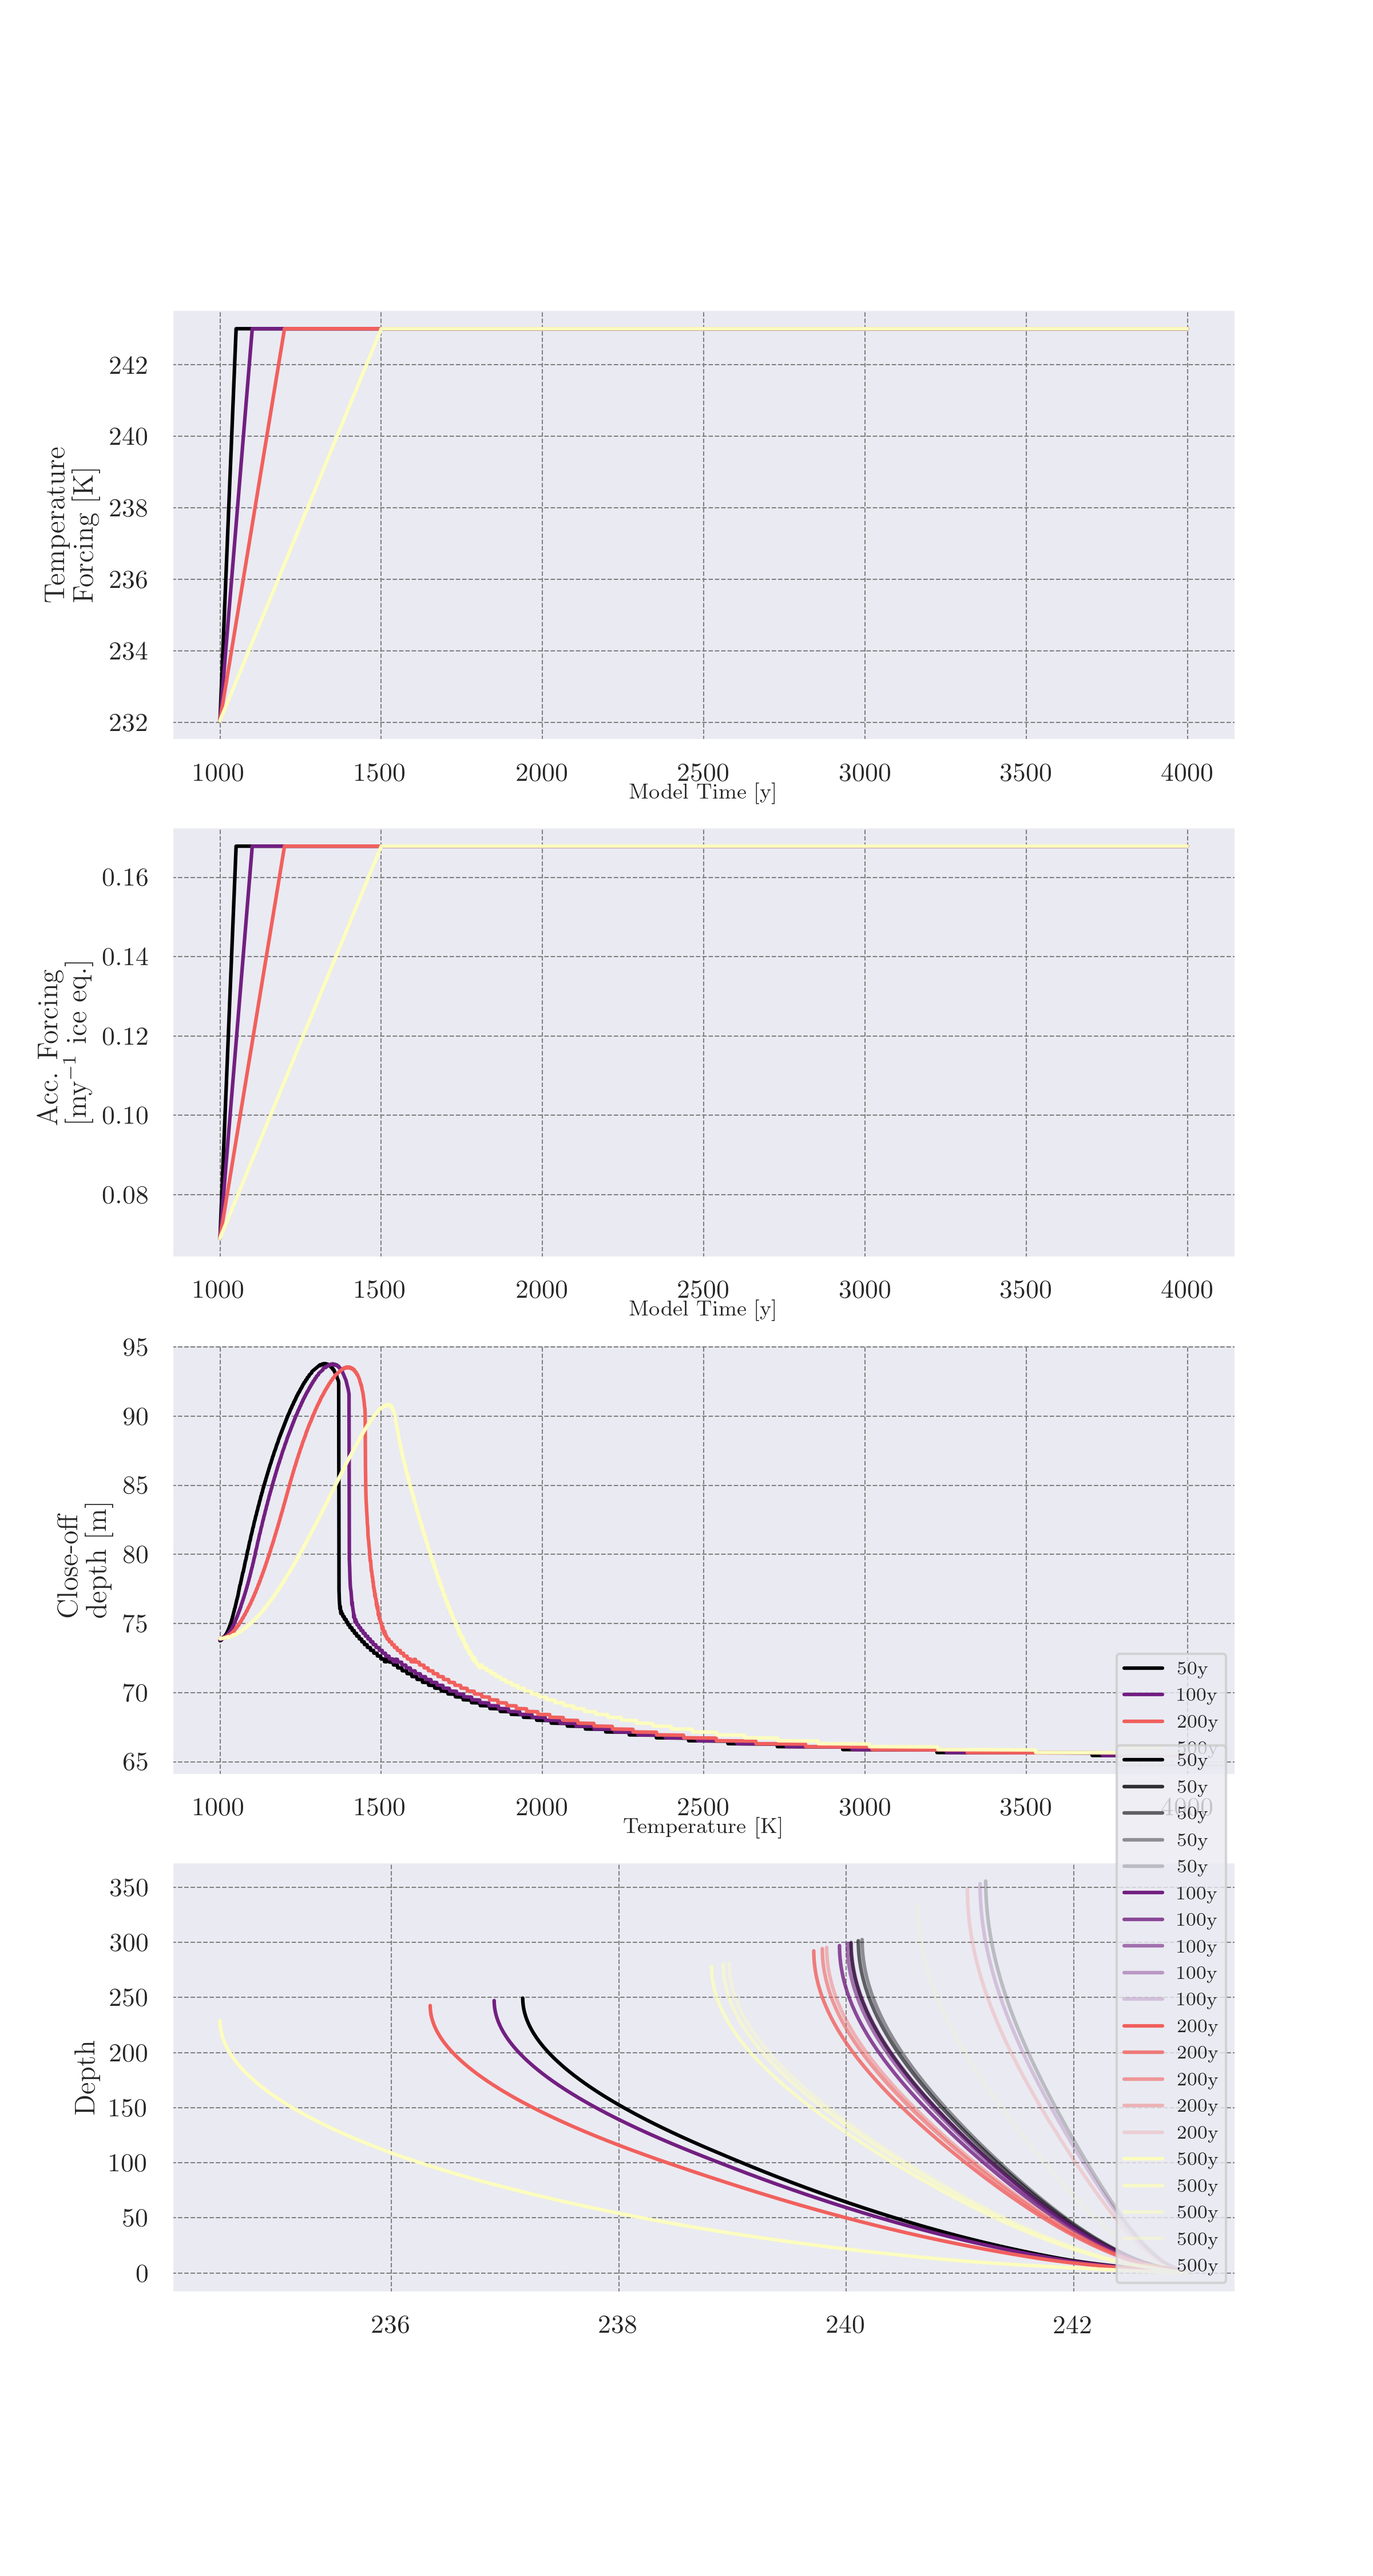
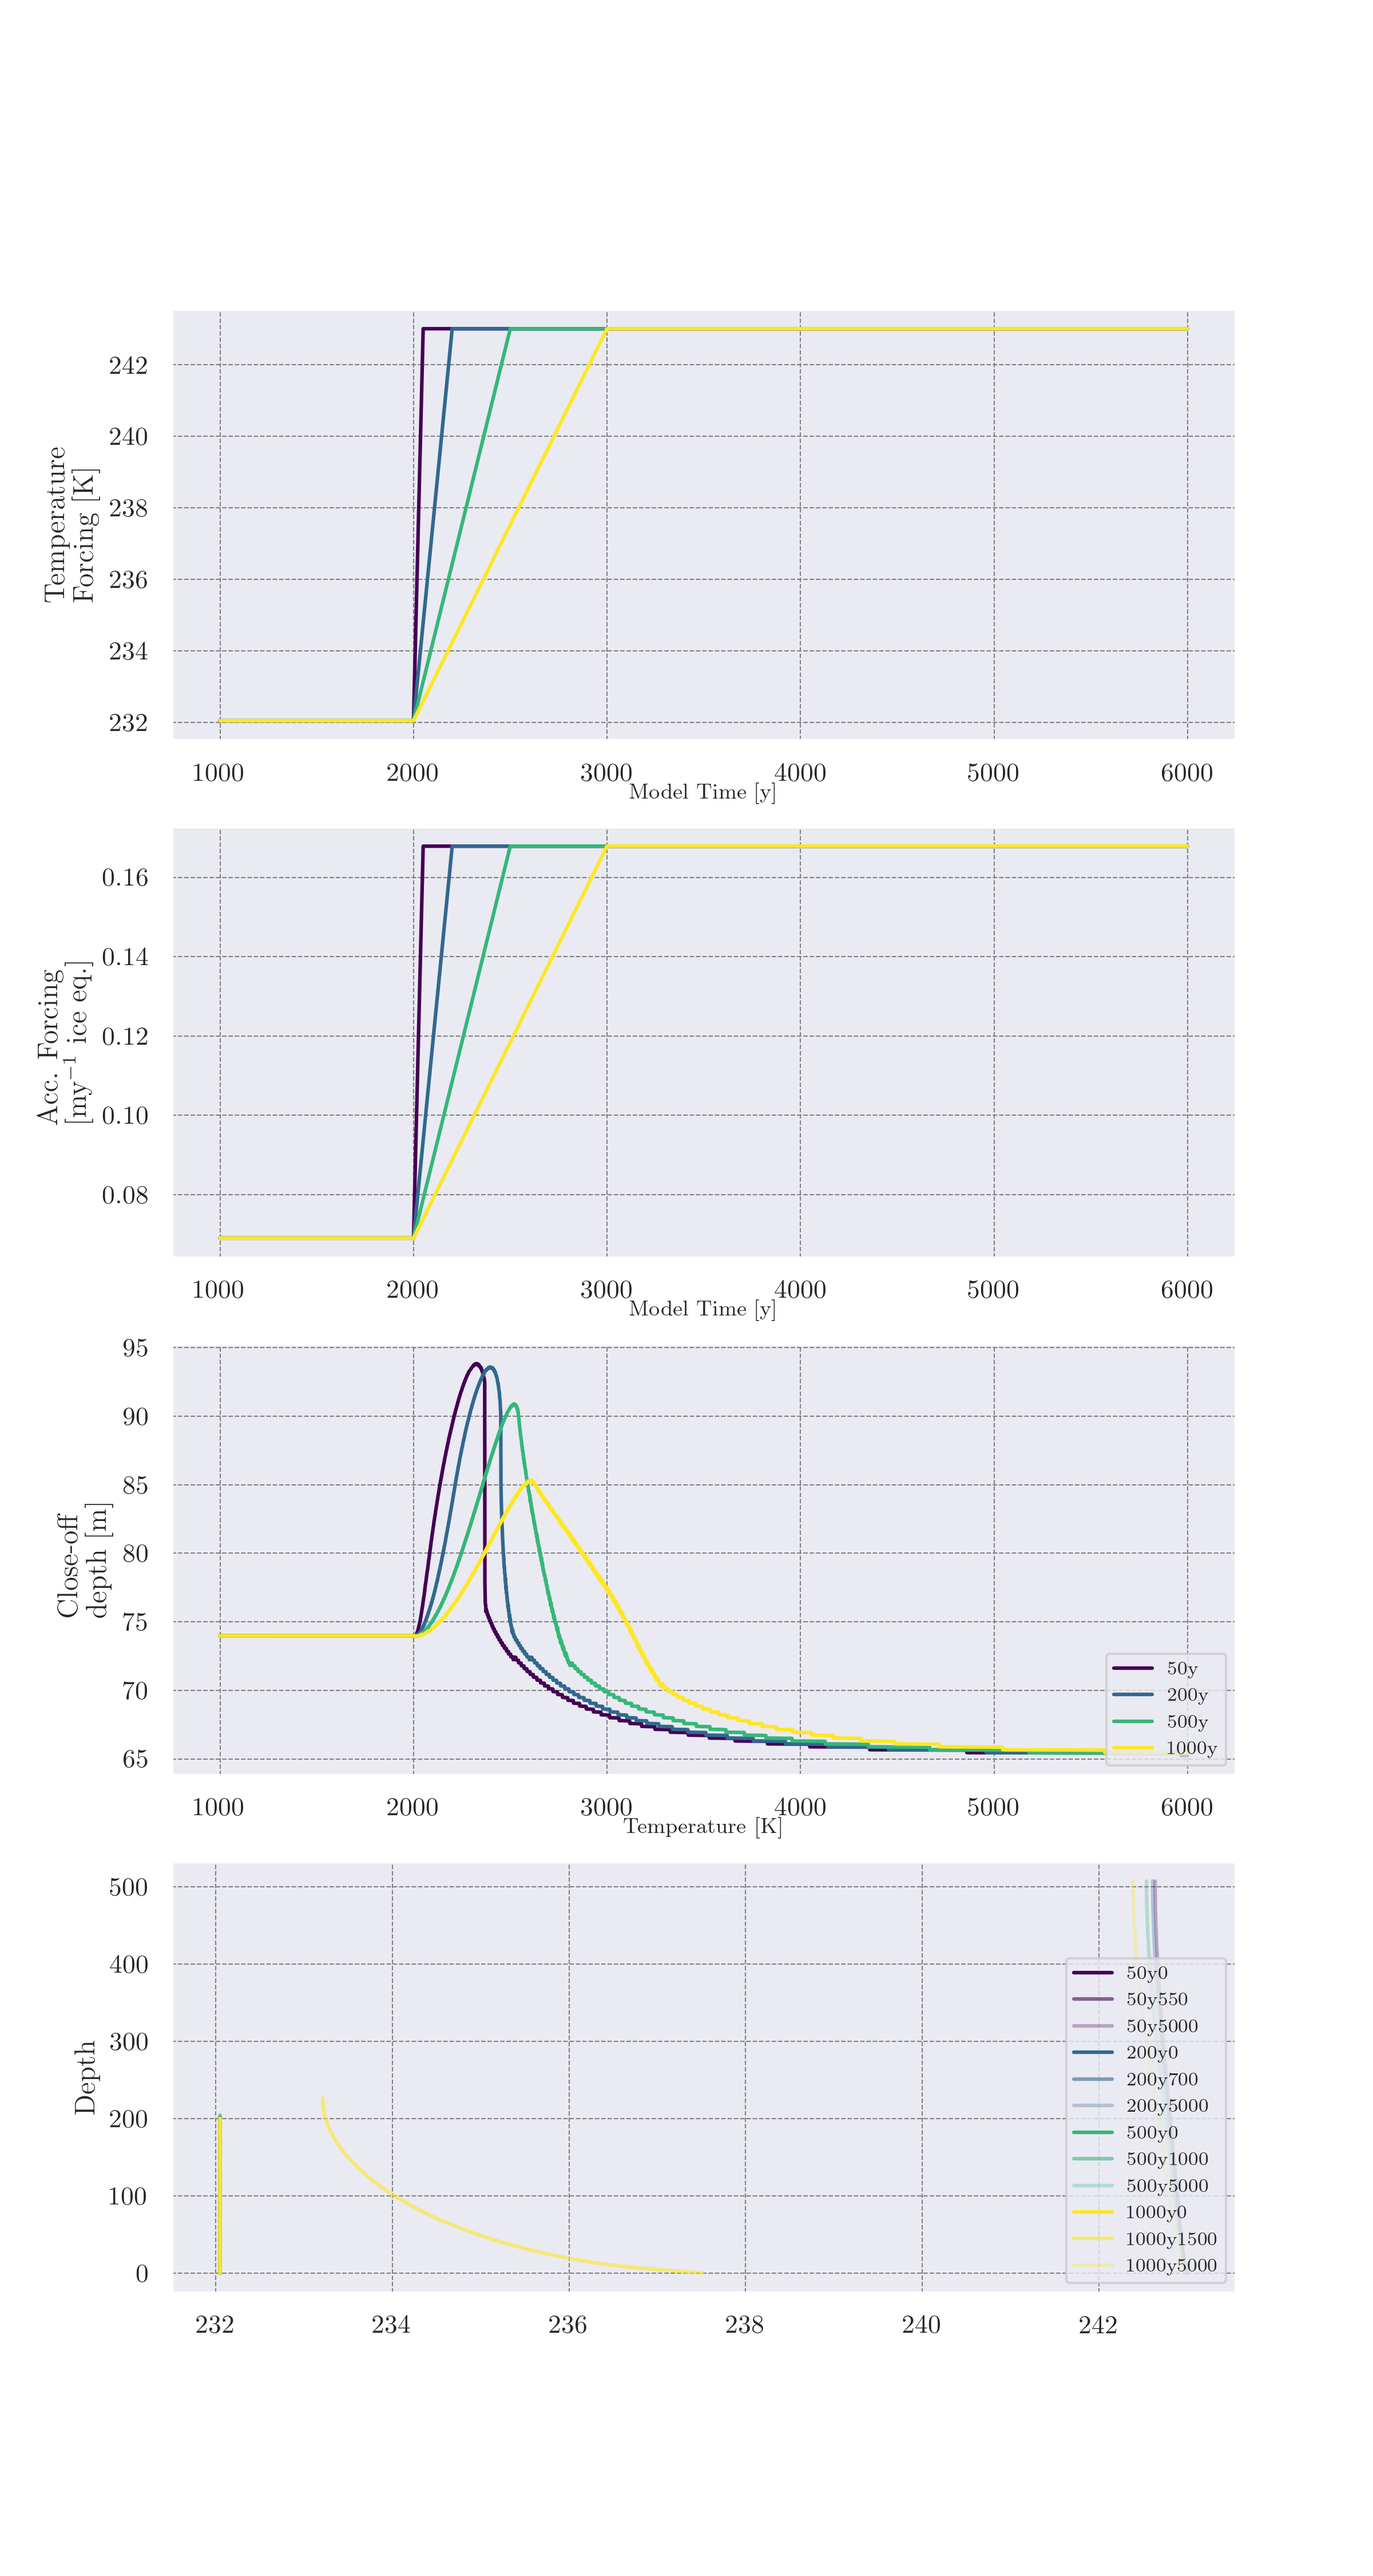
Test
Test

diff --git a/Python/EquiCompare.py b/Python/EquiCompare.py
@@ -18,26 +18,34 @@ import reader as re
 sns.set()
 from scipy.signal import savgol_filter
 from scipy.ndimage.filters import uniform_filter1d
-cmap = plt.cm.get_cmap('magma')
+cmap = plt.cm.get_cmap('viridis')
 cmap_intervals = np.linspace(0, 1, 4)
 from pathlib import Path
 
 
 plt.rc('text', usetex=True)
 plt.rc('font', family='serif')
+
+
+def find_constant_row(matrix, tolerance=1e-6):
+  for i, row in enumerate(matrix):
+    if all(abs(x - row[0]) < tolerance for x in row):
+      return i
+  return -1
+
+
 class CoD_plotter():
 
-    def __init__(self,filepath=None,KtC=False):
+    def __init__(self,filepath=None,rate=None,KtC=False):
         self.filepath = filepath
         self.KtC = KtC
   
         fig, ax = plt.subplots(4, sharex=False, sharey=False)
-        
+        label = rate
         fig.set_figheight(15)
         fig.set_figwidth(8)
-        Times = [500,1001,1020,1030,1500]
-        alpha = [1, 0.8, 0.6, 0.4, 0.2]
-        label = ['50y', '100y', '200y','500y']
+        Rates = np.array([int(x[:-1]) for x in rate])
+        alpha = [1, 0.6, 0.3]
         for k in range(len(self.filepath)):
             if not os.path.exists(self.filepath[k]):
                 print('Results file does not exist', self.filepath[k][40:])
@@ -58,7 +66,7 @@ class CoD_plotter():
                 self.climate[:,2] - 273.15
 
         
-            
+            #print(label,rate)
             #print(len(self.filepath))        
             ax[0].plot(self.model_time, self.climate[:,2],color=cmap(cmap_intervals[k]))
             ax[0].grid(linestyle='--', color='gray', lw='0.5')
@@ -79,9 +87,12 @@ class CoD_plotter():
             ax[2].invert_yaxis()
             #ax[2].legend(loc='lower right', fontsize=8)
             ax[2].set_xlabel(r"Model Time [y]", labelpad=-1.5, fontsize=9)
-            for i in range(len(Times)):
-       
-                ax[3].plot(self.temperature[Times[i]][1:], self.z[Times[i]][1:], color=cmap(cmap_intervals[k]), alpha=alpha[i], label=label[k])
+            
+            Times = np.array([0,Rates[k]+500,len(self.model_time)-1])
+            print(Times)
+            for i in range(len(alpha)):
+                
+                ax[3].plot(self.temperature[Times[i]][1:], self.z[Times[i]][1:], color=cmap(cmap_intervals[k]), alpha=alpha[i], label=label[k]+str(Times[i]))
                 ax[3].grid(linestyle='--', color='gray', lw='0.5')
                 if self.KtC:
                     ax[3].set_ylabel(r'Depth')
@@ -107,7 +118,7 @@ class CoD_plotter():
 rfolder = 'CFM/CFM_main/CFMoutput/Equi/'
 x = ['Temp','Acc','Both']
 
-y = ['50y','100y','200y,','500y']
+y = ['50y','200y','500y,','1000y']
 x2 = ['HLD','BAR','GOU']
 #z = ['grav','Full']
 Folder = [(i+i2+j) for i in x for i2 in x2 for j in y]
@@ -116,7 +127,7 @@ Folder = [(i+i2+j) for i in x for i2 in x2 for j in y]
 def folder_gen(Fold,Exp,FileFlag):
     X = [Exp]
     X2 = [Fold]
-    Y = ['50y/','100y/','200y/','500y/']
+    Y = ['50y/','200y/','500y/','1000y/'] #### Move rate change to figure generation because of legend
     if FileFlag == True:
         X = [x[:-1] for x in X]
         X2 = [x[:-1] for x in X2]
@@ -133,7 +144,7 @@ def folder_gen(Fold,Exp,FileFlag):
     return Folder 
 Exp = ['Temp/','Acc/','Both/']
 Models = ['HLdynamic/','Barnola1991/','Goujon2003/']
-Rates = y
+Rates = ['50y','200y','500y','1000y']
 for j in range(len(Exp)):
     for i in range(len(Models)):
         T = folder_gen(Models[i],Exp[j],False)
@@ -141,7 +152,7 @@ for j in range(len(Exp)):
         path = [rfolder + m+n + '.hdf5' for m,n in zip(T,P)]
         print(Exp[j],Models[i])
         #print(path)
-        Current_plot = CoD_plotter(filepath = path)
+        Current_plot = CoD_plotter(filepath = path,rate = Rates)
         plt.savefig('CoDEqui/'+ str(Exp[j][:-1]) + str(Models[i][:-1]) +'.png',dpi=300)
         plt.close('all')
 

diff --git a/Python/Constant_Forcing_compare.py b/Python/Constant_Forcing_compare.py
@@ -46,24 +46,24 @@ def Run(Model,site):
 
 def csv_gen(site):
     if site == 'NGRIP':    
-        Time = np.array([250,1000,4000])
+        Time = np.array([250,2000,5000])
         Temp = np.full(len(Time),242.05)
         Bdot = np.full(len(Time),1.9e-1)
     elif site == 'Fuji':    
-        Time = np.array([250,1000,4000])
+        Time = np.array([250,2000,5000])
         Temp = np.full(len(Time),215.85)
         Bdot = np.full(len(Time),2.8e-2)
         #print(np.std(Bdot))
     elif site == 'Siple':    
-        Time = np.array([250,1000,4000])
+        Time = np.array([250,2000,5000])
         Temp = np.full(len(Time),247.75)
         Bdot = np.full(len(Time),1.3e-1)
     elif site == 'DE08':    
-        Time = np.array([250,1000,4000])
+        Time = np.array([250,2000,5000])
         Temp = np.full(len(Time),254.2)
         Bdot = np.full(len(Time),1.2)
     elif site == 'DML':
-        Time = np.array([250,1000,4000])
+        Time = np.array([250,2000,5000])
         Temp = np.full(len(Time),234.15)
         Bdot = np.full(len(Time),7.0e-2)
     
@@ -83,7 +83,7 @@ def csv_gen(site):
 file = open('CFM/CFM_main/Constant_Forcing.json')
 data = json.load(file)
 Models = data['physRho_options']
-Sites = ['DML']#['NGRIP','Fuji','Siple','DE08']
+Sites = ['DML']#['NGRIP','Fuji','Siple','DE08']#DML
 
 for Site in Sites:
     path = Path('CFM/CFM_main/CFMinput/Constant_Forcing/' + Site)

diff --git a/Python/mytable.tex b/Python/mytable.tex
@@ -11,18 +11,18 @@ Acc & 0.19 & 0.028 & 0.13 & 1.2 & 7.0 \\
 CoD & 78.0 & 104.0 & 57.0 & 85.0 & 74.0 \\
 HLD & 71.3 & 113.2 & 48.9 & 89.6 & 67.7 \\
 HLS & 71.6 & 113.2 & 49.1 & 95.0 & 67.8 \\
-Li4 & 51.4 & 79.7 & 54.4 & 100.8 & 54.3 \\
-Li1 & 70.9 & 127.8 & 47.6 & 67.9 & 80.0 \\
-HEL & 68.3 & 111.3 & 61.2 & 57.8 & 80.3 \\
-ArtS & 49.8 & 126.7 & 40.0 & 29.0 & 68.3 \\
-ArtT & 55.4 & 84.8 & 43.0 & 34.1 & 75.0 \\
-Li5 & 64.6 & 115.8 & 46.1 & 0.0 & 72.2 \\
-GOU & 62.6 & 105.7 & 46.6 & 13.6 & 65.1 \\
-BAR & 69.3 & 111.0 & 53.0 & 74.0 & 71.0 \\
-MOR & 56.8 & 103.6 & 38.2 & 74.5 & 50.6 \\
-KM & 75.7 & 127.3 & 55.2 & 98.1 & 81.8 \\
-CRO & 78.3 & 125.7 & 56.3 & 89.9 & 82.8 \\
-LIG & 61.4 & 115.3 & 44.1 & 94.8 & 64.0 \\
+Li4 & 51.4 & 69.2 & 54.4 & 100.8 & 54.3 \\
+Li1 & 70.9 & 141.5 & 47.6 & 67.9 & 79.9 \\
+HEL & 68.3 & 107.7 & 61.2 & 57.8 & 80.3 \\
+ArtS & 49.8 & 138.1 & 40.0 & 29.0 & 68.3 \\
+ArtT & 55.4 & 110.3 & 43.0 & 34.1 & 75.0 \\
+Li5 & 64.6 & 118.5 & 46.1 & 0.0 & 72.1 \\
+GOU & 62.6 & 107.0 & 46.6 & 13.6 & 65.1 \\
+BAR & 69.3 & 112.3 & 53.0 & 74.0 & 71.0 \\
+MOR & 56.8 & 101.8 & 38.2 & 74.5 & 50.6 \\
+KM & 75.7 & 137.7 & 55.2 & 98.1 & 81.8 \\
+CRO & 78.3 & 136.0 & 56.3 & 89.9 & 82.8 \\
+LIG & 61.4 & 116.7 & 44.1 & 94.8 & 64.0 \\
 \bottomrule
 \end{tabular}
 \end{table}

diff --git a/Python/reader.py b/Python/reader.py
@@ -24,7 +24,7 @@ def read(rfolder):
     Various arrays.
 
     '''
-    rfile = 'CFMresults.hdf5'
+    rfile = 'Temp_HLdynamic50y.hdf5'
     fn = os.path.join(rfolder,rfile)
     f = h5.File(fn,'r')
     
@@ -41,11 +41,36 @@ def read(rfolder):
     d15N2 = (f['d15N2'][:,:]-1)*1000
     d40Ar = (f[f'd40Ar'][:,:]-1)*1000
     #print(d15N2.shape,depth.shape)
-    Bubble = f['BCO'][:]
+    Bubble = f['BCO'][:,2]
     f.close()
     with h5.File(fn,'r') as hf:
         print(hf.keys())
     return timesteps,stps,depth,density,temperature,diffusivity,forcing,age,climate,d15N2,d40Ar,Bubble
+
+def find_constant_row(matrix, tolerance=1e-6):
+  for i, row in enumerate(matrix):
+    if all(abs(x - row[0]) < tolerance for x in row):
+      return i
+  return -1
+
+def find_first_constant(vector, tolerance):
+  for i in range(1, len(vector)):
+    if abs(vector[i] - vector[i-1]) <= tolerance:
+      return i
+  return -1
+
+
+
+
+timesteps,stps,depth,density,temperature,diffusivity,forcing,age,climate,d15N2,d40Ar,Bubble = read('CFM/CFM_main/CFMoutput/Equi/Temp/HLdynamic/50y/')
+from matplotlib import pyplot as plt
+
+plt.plot(temperature[:, 1:].T)
+Time = find_constant_row(temperature[1002:,1:],tolerance = 1e-2)
+
+
+
+
 
 
 

diff --git a/Python/EquiCsv.py b/Python/EquiCsv.py
@@ -18,20 +18,20 @@ def csv_gen(mode,rate):
     
     if mode == 'Both':
         
-        Time = np.array([250,2000,2000+rate,4000])
-        Temp = np.array([232.05,232.05,243,243])
+        Time = np.array([250,1000,2000,2000+rate,6000])
+        Temp = np.array([232.05,232.05,232.05,243,243])
     
         a = -21.492
         b = 0.0811
         Bdot = np.exp(a+b*Temp)
     elif mode == 'Temp':
-        Time = np.array([250,2000,2000+rate,4000])
-        Temp = np.array([232.05,232.05,243,243])
+        Time = np.array([250,1000,2000,2000+rate,6000])
+        Temp = np.array([232.05,232.05,232.05,243,243])
         Bdot = np.full(len(Time),1.9e-1)
     elif mode == 'Acc':
-        Time = np.array([250,2000,2000+rate,4000])
+        Time = np.array([250,1000,2000,2000+rate,6000])
         Temp = np.full(len(Time),232.05)
-        Bdot = np.array([0.185,0.185,0.26,0.26])
+        Bdot = np.array([0.185,0.185,0.185,0.26,0.26])
 
         #plt.plot(Time,Temp)
     Temp_csv = np.array([Time,Temp])

diff --git a/Python/CFM/CFM_main/firn_density_nospin.py b/Python/CFM/CFM_main/firn_density_nospin.py
@@ -202,6 +202,7 @@ class FirnDensityNoSpin:
                 
             else: # Input data comes from a .csv
                 input_temp, input_year_temp, input_temp_full, input_year_temp_full = read_input(os.path.join(self.c['InputFileFolder'],self.c['InputFileNameTemp']), updatedStartDate)
+                print(read_input(os.path.join(self.c['InputFileFolder'],self.c['InputFileNameTemp']), updatedStartDate))
             if input_temp[0] < 0.0:
                 input_temp      = input_temp + K_TO_C
             input_temp[input_temp>T_MELT] = T_MELT

diff --git a/Python/main.py b/Python/main.py
@@ -67,7 +67,7 @@ folder2 = './CFM/CFM_main/CFMinput/Equi'
 #Equi_Folder = [name for name in os.listdir(folder2) if os.path.isdir(os.path.join(folder2, name))]
 Exp = ['Temp','Acc','Both']
 Models = ['HLdynamic','Barnola1991','Goujon2003']
-Folder = ['50y','100y','200y','500y']
+Folder = ['50y','200y','500y','1000y']
 def Equi_run(Model,exp,folder):
     for k in range(len(exp)):
         for j in range(len(Model)):
